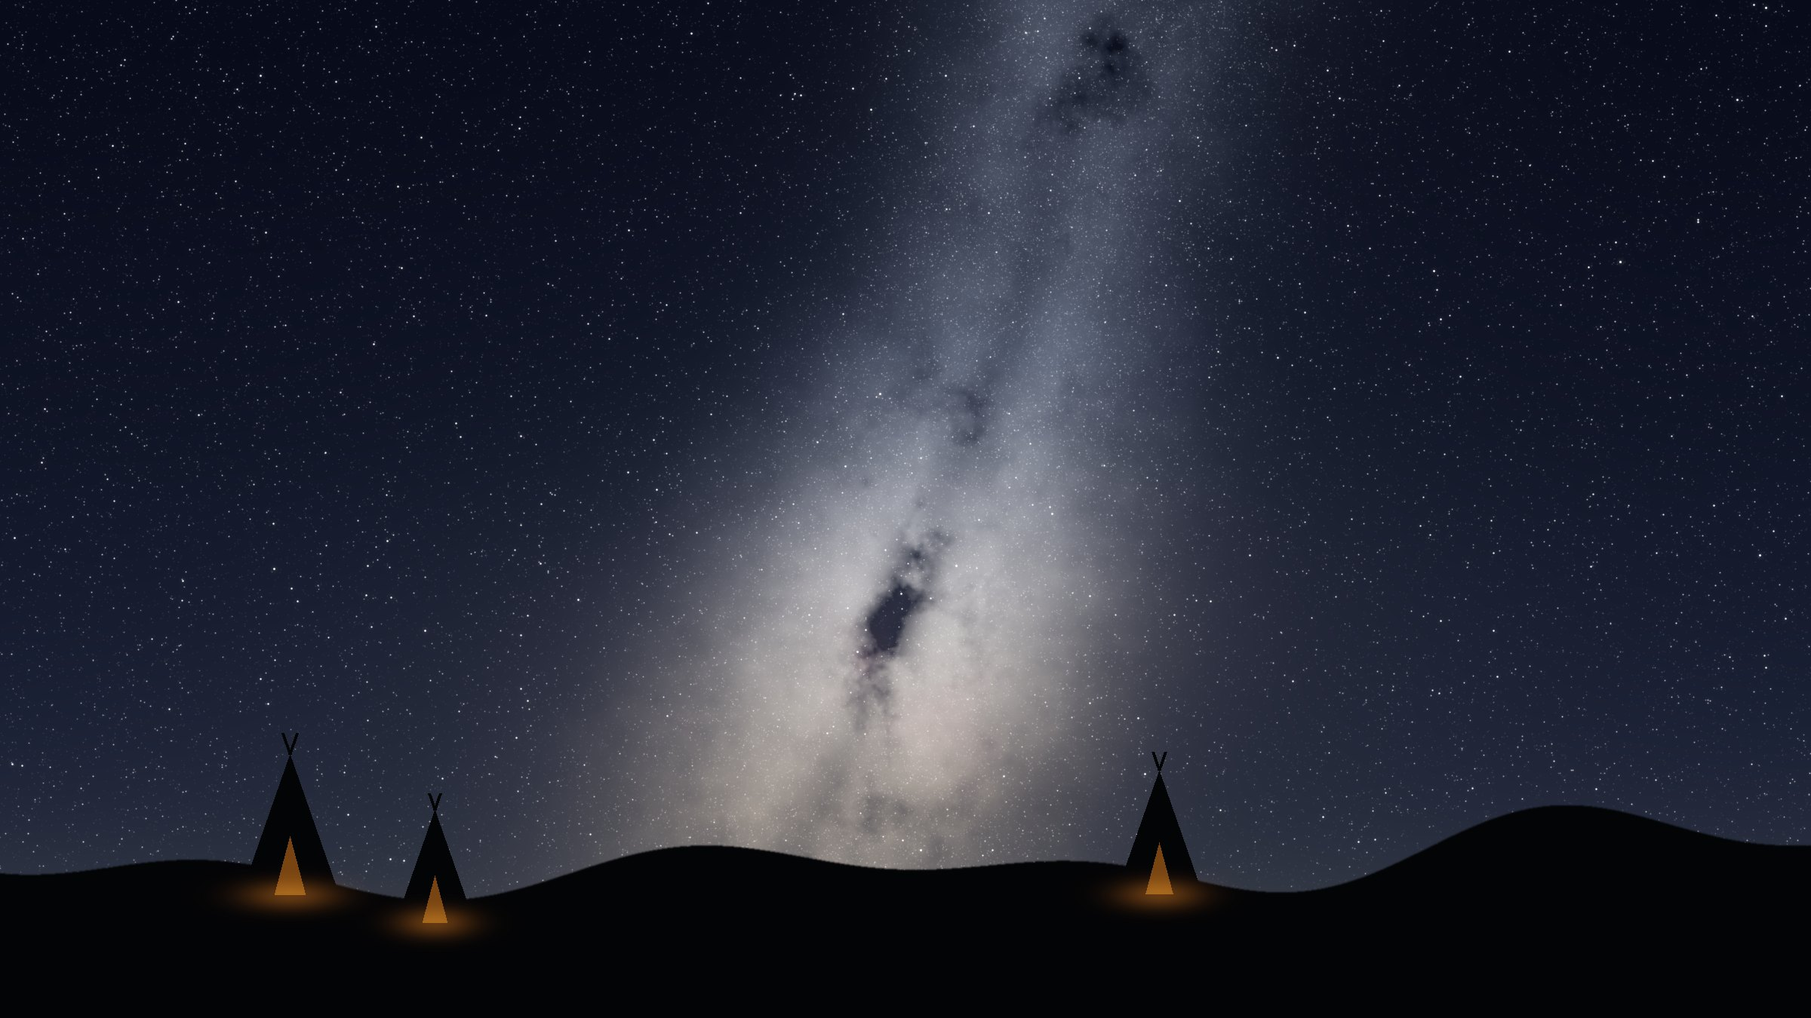
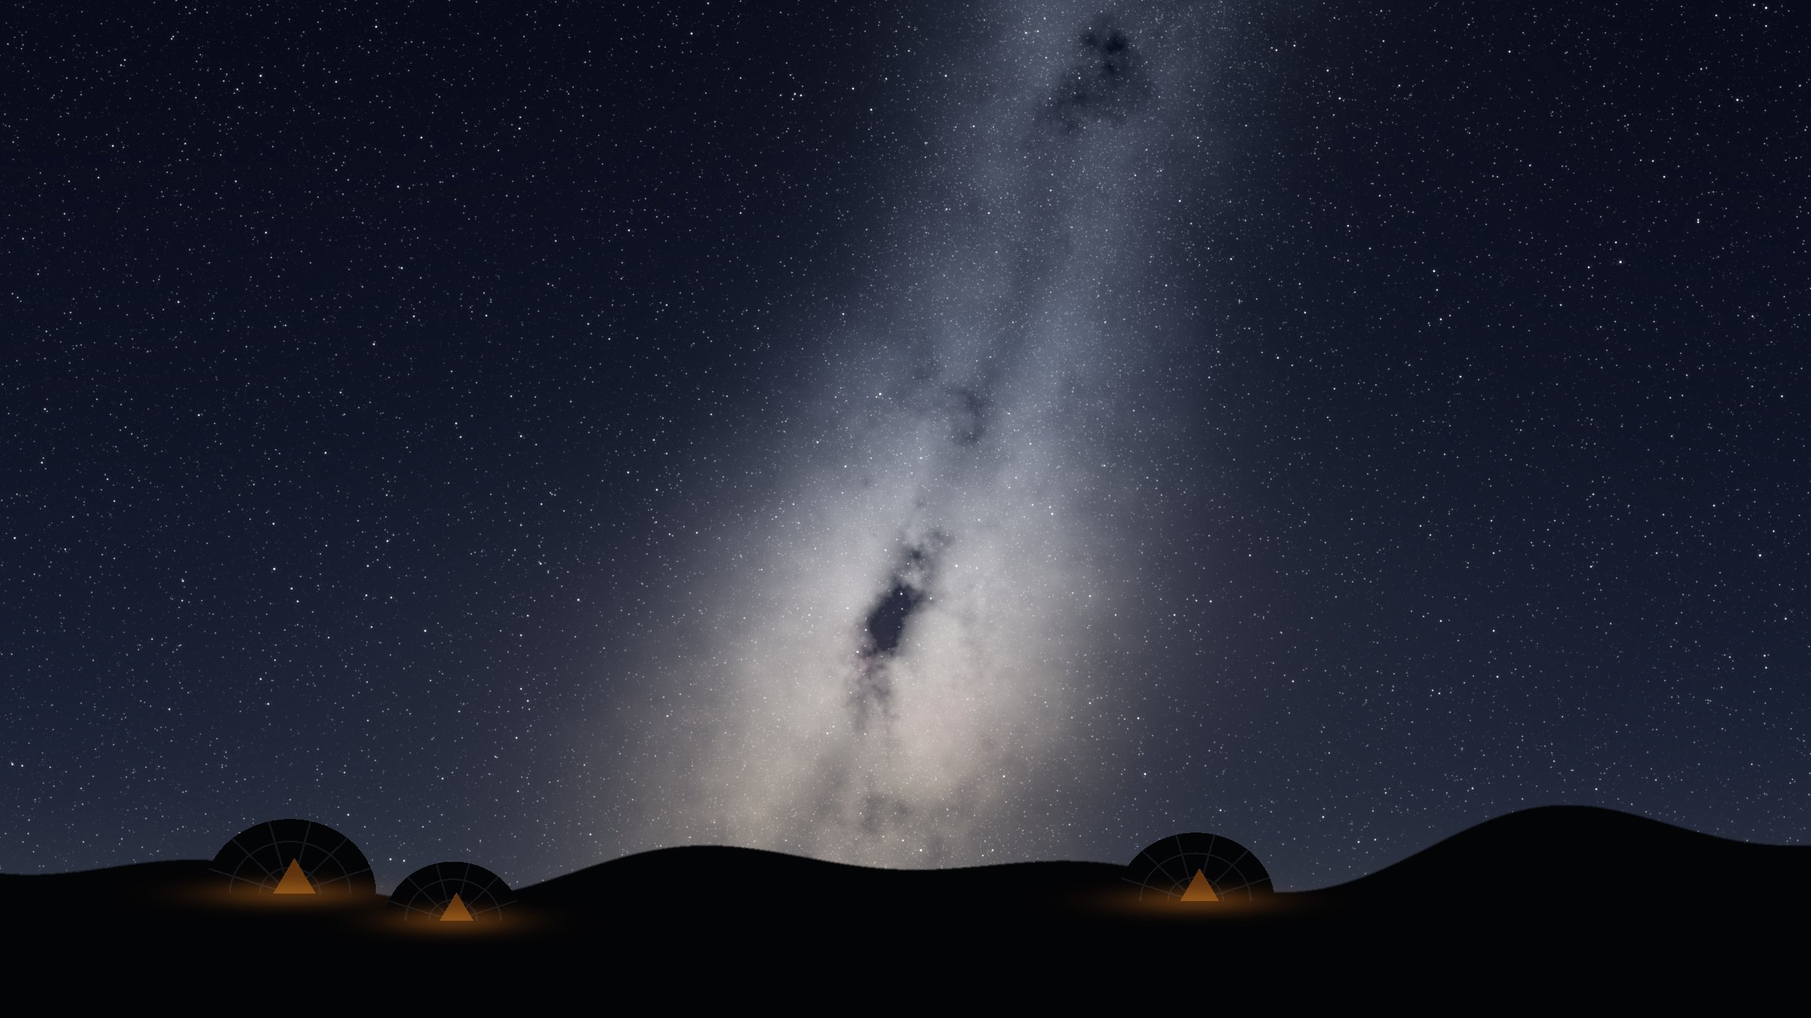
Domo geodésico como alojamiento principal; portada con domos

Changed region(s): [[0.125, 0.7467, 0.2812, 0.9333], [0.625, 0.7467, 0.7188, 0.9022], [0.0938, 0.8711, 0.125, 0.9022]]

diff --git a/index.html b/index.html
@@ -255,12 +255,12 @@ body.locked{overflow:hidden}
     </g>
     <!-- tipis -->
     <g fill="#141a26">
-      <path d="M300 92 L322 40 L344 92Z"/><path d="M316 46 l-6 -10 M328 46 l6 -10" stroke="#141a26" stroke-width="2"/>
-      <path d="M392 88 L410 46 L428 88Z"/>
+      <path d="M296 92 a26 26 0 0 1 52 0Z"/>
+      <path d="M392 88 a18 18 0 0 1 36 0Z"/>
       <path d="M560 76 a24 24 0 0 1 48 0Z"/>
     </g>
     <!-- luz ámbar tenue -->
-    <circle cx="322" cy="89" r="2.2" fill="#e0913f"/><circle cx="410" cy="85" r="1.8" fill="#e0913f" opacity=".8"/>
+    <circle cx="322" cy="89" r="2.2" fill="#e0913f"/><circle cx="410" cy="86" r="1.8" fill="#e0913f" opacity=".8"/>
     <circle cx="1052" cy="68" r="1.6" fill="#c2413a"/>
     <!-- hileras de viña -->
     <g stroke="#1a2230" stroke-width="2">
@@ -327,6 +327,16 @@ body.locked{overflow:hidden}
     <h2 data-i18n="stay_h2">Duerme entre viñas, a cien pasos de tu telescopio</h2>
     <p class="intro" data-i18n="stay_intro">Pequeños alojamientos sencillos repartidos por el viñedo, para quien viene a montar su equipo, a visitarlo o simplemente a pasar una noche bajo este cielo. Sin lujos innecesarios y a precio razonable. Todavía no admitimos reservas de alojamiento.</p>
     <div class="grid g3">
+      <div class="cell"><svg viewBox="0 0 400 260" role="img" aria-label="Ilustración de domo geodésico"><defs><linearGradient id="skyg" x1="0" y1="0" x2="0" y2="1"><stop offset="0" stop-color="#05070c"/><stop offset="1" stop-color="#121a2a"/></linearGradient><radialGradient id="glow" cx=".5" cy=".5" r=".5"><stop offset="0" stop-color="#e0913f" stop-opacity=".55"/><stop offset="1" stop-color="#e0913f" stop-opacity="0"/></radialGradient></defs><rect width="400" height="260" fill="url(#skyg)"/><g fill="#e7e3d8"><circle cx="22" cy="18" r="0.9" opacity="0.8"/><circle cx="58" cy="40" r="0.6" opacity="0.6"/><circle cx="96" cy="14" r="0.7" opacity="0.7"/><circle cx="140" cy="32" r="1.1" opacity="0.9"/><circle cx="188" cy="12" r="0.6" opacity="0.5"/><circle cx="232" cy="44" r="0.8" opacity="0.7"/><circle cx="270" cy="20" r="0.6" opacity="0.6"/><circle cx="310" cy="36" r="1" opacity="0.8"/><circle cx="352" cy="16" r="0.7" opacity="0.7"/><circle cx="380" cy="50" r="0.6" opacity="0.5"/><circle cx="120" cy="60" r="0.5" opacity="0.5"/><circle cx="330" cy="70" r="0.5" opacity="0.4"/><circle cx="40" cy="72" r="0.5" opacity="0.4"/><circle cx="210" cy="70" r="0.5" opacity="0.4"/></g><path d="M0 222 Q200 210 400 220 V260 H0Z" fill="#0a0e15"/><g stroke="#2b3a24" stroke-width="2" stroke-dasharray="3 7"><path d="M0 236 Q200 226 400 234"/><path d="M0 250 Q200 240 400 248"/></g>
+<path d="M120 214 A80 80 0 0 1 280 214Z" fill="#1b2230"/>
+<g fill="none" stroke="#6f7788" stroke-width="1.2"><path d="M120 214 A80 80 0 0 1 280 214"/><path d="M136 168 L200 134 L264 168"/><path d="M128 194 L168 158 L200 134 L232 158 L272 194"/><path d="M168 158 L136 168 M232 158 L264 168 M168 158 L200 196 L232 158 M128 194 L168 214 L200 196 L232 214 L272 194 M200 134 V196"/></g>
+<path d="M168 158 L200 134 L232 158 L200 196Z" fill="#e0913f" opacity=".22"/>
+<rect x="114" y="214" width="172" height="6" fill="#4a3826"/><ellipse cx="200" cy="216" rx="46" ry="6" fill="url(#glow)"/><g><rect x="92" y="214" width="3" height="10" fill="#1d2433"/><ellipse cx="93.5" cy="225" rx="14" ry="3" fill="url(#glow)"/></g><g><rect x="304" y="214" width="3" height="10" fill="#1d2433"/><ellipse cx="305.5" cy="225" rx="14" ry="3" fill="url(#glow)"/></g></svg>
+        <div><span class="tag main" data-i18n="dome_tag">Opción preferida</span></div>
+        <h3 data-i18n="dome_h">Domo geodésico</h3>
+        <p data-i18n="dome_p">Cúpula con ventanal hacia el cielo para mirar las estrellas desde la cama. Más aislada y confortable para estancias de varios días.</p>
+        <p class="illus" data-i18n="illus">Ilustración orientativa</p>
+      </div>
       <div class="cell"><svg viewBox="0 0 400 260" role="img" aria-label="Ilustración de tipi de palma entre viñas"><defs><linearGradient id="skyg" x1="0" y1="0" x2="0" y2="1"><stop offset="0" stop-color="#05070c"/><stop offset="1" stop-color="#121a2a"/></linearGradient><radialGradient id="glow" cx=".5" cy=".5" r=".5"><stop offset="0" stop-color="#e0913f" stop-opacity=".55"/><stop offset="1" stop-color="#e0913f" stop-opacity="0"/></radialGradient></defs><rect width="400" height="260" fill="url(#skyg)"/><g fill="#e7e3d8"><circle cx="22" cy="18" r="0.9" opacity="0.8"/><circle cx="58" cy="40" r="0.6" opacity="0.6"/><circle cx="96" cy="14" r="0.7" opacity="0.7"/><circle cx="140" cy="32" r="1.1" opacity="0.9"/><circle cx="188" cy="12" r="0.6" opacity="0.5"/><circle cx="232" cy="44" r="0.8" opacity="0.7"/><circle cx="270" cy="20" r="0.6" opacity="0.6"/><circle cx="310" cy="36" r="1" opacity="0.8"/><circle cx="352" cy="16" r="0.7" opacity="0.7"/><circle cx="380" cy="50" r="0.6" opacity="0.5"/><circle cx="120" cy="60" r="0.5" opacity="0.5"/><circle cx="330" cy="70" r="0.5" opacity="0.4"/><circle cx="40" cy="72" r="0.5" opacity="0.4"/><circle cx="210" cy="70" r="0.5" opacity="0.4"/></g><path d="M0 222 Q200 210 400 220 V260 H0Z" fill="#0a0e15"/><g stroke="#2b3a24" stroke-width="2" stroke-dasharray="3 7"><path d="M0 236 Q200 226 400 234"/><path d="M0 250 Q200 240 400 248"/></g>
 <g stroke="#6b5a42" stroke-width="3" stroke-linecap="round"><line x1="200" y1="56" x2="148" y2="214"/><line x1="200" y1="56" x2="252" y2="214"/><line x1="200" y1="56" x2="184" y2="34"/><line x1="200" y1="56" x2="218" y2="32"/><line x1="200" y1="56" x2="200" y2="30"/></g>
 <path d="M200 60 L136 212 H264Z" fill="#3a2f22"/>
@@ -334,19 +344,9 @@ body.locked{overflow:hidden}
 <path d="M200 118 L176 212 H224Z" fill="#e0913f" opacity=".28"/><path d="M200 128 L184 212 H216Z" fill="#e0913f" opacity=".35"/>
 <rect x="186" y="196" width="28" height="10" fill="#c9b48e" opacity=".55"/>
 <rect x="128" y="212" width="144" height="8" fill="#4a3826"/><ellipse cx="200" cy="214" rx="40" ry="6" fill="url(#glow)"/><g><rect x="108" y="214" width="3" height="10" fill="#1d2433"/><ellipse cx="109.5" cy="225" rx="14" ry="3" fill="url(#glow)"/></g><g><rect x="290" y="214" width="3" height="10" fill="#1d2433"/><ellipse cx="291.5" cy="225" rx="14" ry="3" fill="url(#glow)"/></g></svg>
-        <div><span class="tag main" data-i18n="tipi_tag">Opción preferida</span></div>
+        <div><span class="tag" data-i18n="tipi_tag">Alternativa</span></div>
         <h3 data-i18n="tipi_h">Tipi</h3>
         <p data-i18n="tipi_p">Tipi de lona cubierto de hoja de palma, sobre tarima de madera, cama doble, luz interior ámbar regulable y techo abierto al cielo. El alojamiento más sencillo y con más encanto.</p>
-        <p class="illus" data-i18n="illus">Ilustración orientativa</p>
-      </div>
-      <div class="cell"><svg viewBox="0 0 400 260" role="img" aria-label="Ilustración de domo geodésico"><defs><linearGradient id="skyg" x1="0" y1="0" x2="0" y2="1"><stop offset="0" stop-color="#05070c"/><stop offset="1" stop-color="#121a2a"/></linearGradient><radialGradient id="glow" cx=".5" cy=".5" r=".5"><stop offset="0" stop-color="#e0913f" stop-opacity=".55"/><stop offset="1" stop-color="#e0913f" stop-opacity="0"/></radialGradient></defs><rect width="400" height="260" fill="url(#skyg)"/><g fill="#e7e3d8"><circle cx="22" cy="18" r="0.9" opacity="0.8"/><circle cx="58" cy="40" r="0.6" opacity="0.6"/><circle cx="96" cy="14" r="0.7" opacity="0.7"/><circle cx="140" cy="32" r="1.1" opacity="0.9"/><circle cx="188" cy="12" r="0.6" opacity="0.5"/><circle cx="232" cy="44" r="0.8" opacity="0.7"/><circle cx="270" cy="20" r="0.6" opacity="0.6"/><circle cx="310" cy="36" r="1" opacity="0.8"/><circle cx="352" cy="16" r="0.7" opacity="0.7"/><circle cx="380" cy="50" r="0.6" opacity="0.5"/><circle cx="120" cy="60" r="0.5" opacity="0.5"/><circle cx="330" cy="70" r="0.5" opacity="0.4"/><circle cx="40" cy="72" r="0.5" opacity="0.4"/><circle cx="210" cy="70" r="0.5" opacity="0.4"/></g><path d="M0 222 Q200 210 400 220 V260 H0Z" fill="#0a0e15"/><g stroke="#2b3a24" stroke-width="2" stroke-dasharray="3 7"><path d="M0 236 Q200 226 400 234"/><path d="M0 250 Q200 240 400 248"/></g>
-<path d="M120 214 A80 80 0 0 1 280 214Z" fill="#1b2230"/>
-<g fill="none" stroke="#6f7788" stroke-width="1.2"><path d="M120 214 A80 80 0 0 1 280 214"/><path d="M136 168 L200 134 L264 168"/><path d="M128 194 L168 158 L200 134 L232 158 L272 194"/><path d="M168 158 L136 168 M232 158 L264 168 M168 158 L200 196 L232 158 M128 194 L168 214 L200 196 L232 214 L272 194 M200 134 V196"/></g>
-<path d="M168 158 L200 134 L232 158 L200 196Z" fill="#e0913f" opacity=".22"/>
-<rect x="114" y="214" width="172" height="6" fill="#4a3826"/><ellipse cx="200" cy="216" rx="46" ry="6" fill="url(#glow)"/><g><rect x="92" y="214" width="3" height="10" fill="#1d2433"/><ellipse cx="93.5" cy="225" rx="14" ry="3" fill="url(#glow)"/></g><g><rect x="304" y="214" width="3" height="10" fill="#1d2433"/><ellipse cx="305.5" cy="225" rx="14" ry="3" fill="url(#glow)"/></g></svg>
-        <div><span class="tag" data-i18n="dome_tag">Alternativa</span></div>
-        <h3 data-i18n="dome_h">Domo geodésico</h3>
-        <p data-i18n="dome_p">Cúpula con ventanal hacia el cielo para mirar las estrellas desde la cama. Más aislada y confortable para estancias de varios días.</p>
         <p class="illus" data-i18n="illus">Ilustración orientativa</p>
       </div>
       <div class="cell"><svg viewBox="0 0 400 260" role="img" aria-label="Ilustración de cabaña de madera y piedra"><defs><linearGradient id="skyg" x1="0" y1="0" x2="0" y2="1"><stop offset="0" stop-color="#05070c"/><stop offset="1" stop-color="#121a2a"/></linearGradient><radialGradient id="glow" cx=".5" cy=".5" r=".5"><stop offset="0" stop-color="#e0913f" stop-opacity=".55"/><stop offset="1" stop-color="#e0913f" stop-opacity="0"/></radialGradient></defs><rect width="400" height="260" fill="url(#skyg)"/><g fill="#e7e3d8"><circle cx="22" cy="18" r="0.9" opacity="0.8"/><circle cx="58" cy="40" r="0.6" opacity="0.6"/><circle cx="96" cy="14" r="0.7" opacity="0.7"/><circle cx="140" cy="32" r="1.1" opacity="0.9"/><circle cx="188" cy="12" r="0.6" opacity="0.5"/><circle cx="232" cy="44" r="0.8" opacity="0.7"/><circle cx="270" cy="20" r="0.6" opacity="0.6"/><circle cx="310" cy="36" r="1" opacity="0.8"/><circle cx="352" cy="16" r="0.7" opacity="0.7"/><circle cx="380" cy="50" r="0.6" opacity="0.5"/><circle cx="120" cy="60" r="0.5" opacity="0.5"/><circle cx="330" cy="70" r="0.5" opacity="0.4"/><circle cx="40" cy="72" r="0.5" opacity="0.4"/><circle cx="210" cy="70" r="0.5" opacity="0.4"/></g><path d="M0 222 Q200 210 400 220 V260 H0Z" fill="#0a0e15"/><g stroke="#2b3a24" stroke-width="2" stroke-dasharray="3 7"><path d="M0 236 Q200 226 400 234"/><path d="M0 250 Q200 240 400 248"/></g>
@@ -459,7 +459,7 @@ body.locked{overflow:hidden}
           <line x1="220" y1="60" x2="580" y2="60"/><line x1="220" y1="100" x2="580" y2="100"/><line x1="220" y1="140" x2="580" y2="140"/><line x1="220" y1="180" x2="580" y2="180"/><line x1="220" y1="220" x2="580" y2="220"/><line x1="220" y1="260" x2="580" y2="260"/><line x1="220" y1="300" x2="580" y2="300"/>
         </g>
         <g fill="#0d111b" stroke="#e7e3d8" stroke-width="1.3">
-          <path d="M270 132 L284 100 L298 132Z"/><path d="M370 212 L384 180 L398 212Z"/><path d="M480 132 L494 100 L508 132Z"/>
+          <path d="M268 132 a16 16 0 0 1 32 0Z"/><path d="M368 212 a16 16 0 0 1 32 0Z"/><path d="M478 132 a16 16 0 0 1 32 0Z"/>
           <path d="M300 288 a16 16 0 0 1 32 0Z"/><rect x="440" y="266" width="34" height="24"/>
         </g>
         <g fill="#e0913f"><circle cx="284" cy="138" r="2"/><circle cx="384" cy="218" r="2"/><circle cx="494" cy="138" r="2"/><circle cx="316" cy="294" r="2"/><circle cx="457" cy="296" r="2"/></g>
@@ -493,7 +493,7 @@ body.locked{overflow:hidden}
       <div><span class="t">12:00</span><h4 data-i18n="d1_h">Llegada</h4><p data-i18n="d1_p">Revisas tu equipo con nosotros o montas uno nuevo en el taller.</p></div>
       <div><span class="t">18:00</span><h4 data-i18n="d2_h">Viñedo</h4><p data-i18n="d2_p">Paseo entre las viñas y cata del vino de la finca.</p></div>
       <div><span class="t">21:30</span><h4 data-i18n="d3_h">Crepúsculo</h4><p data-i18n="d3_p">Se apagan las luces exteriores. Linterna roja en mano.</p></div>
-      <div><span class="t">23:00</span><h4 data-i18n="d4_h">Observación</h4><p data-i18n="d4_p">Junto a tu telescopio o desde la puerta del tipi.</p></div>
+      <div><span class="t">23:00</span><h4 data-i18n="d4_h">Observación</h4><p data-i18n="d4_p">Junto a tu telescopio o desde la cama del domo.</p></div>
     </div>
   </div>
 </section>
@@ -559,8 +559,8 @@ price_tbd:"Price to be set",price_m:"€ / month · no lock-in",
 inc1:"Solar power with batteries and backup, so outages don't cost you sessions",inc2:"High-speed internet with a backup line",inc3:"Private network and VPN for every client",inc4:"Weather station and automatic roof closing for rain or wind",inc5:"Help with installation and commissioning",inc6:"On-site hands: reboots, filter changes, cleaning",inc7:"24-hour surveillance and access control",inc8:"No entry or exit fee",
 stay_k:"Accommodation · planned",stay_h2:"Sleep among the vines, a hundred steps from your telescope",
 stay_intro:"Small, simple lodgings spread across the vineyard for those who come to set up their equipment, visit it, or just spend a night under this sky. No unnecessary luxury, at a fair price. We are not taking accommodation bookings yet.",
-tipi_tag:"Preferred option",tipi_h:"Tipi",tipi_p:"Canvas tipi thatched with palm leaves, on a wooden deck, double bed, dimmable amber light inside and a roof open to the sky. The simplest and most charming option.",
-dome_tag:"Alternative",dome_h:"Geodesic dome",dome_p:"A dome with a window to the sky to watch the stars from bed. Better insulated and more comfortable for stays of several days.",
+tipi_tag:"Alternative",tipi_h:"Tipi",tipi_p:"Canvas tipi thatched with palm leaves, on a wooden deck, double bed, dimmable amber light inside and a roof open to the sky. The simplest and most charming option.",
+dome_tag:"Preferred option",dome_h:"Geodesic dome",dome_p:"A dome with a window to the sky to watch the stars from bed. Better insulated and more comfortable for stays of several days.",
 cab_tag:"Alternative",cab_h:"Wooden cabin",cab_p:"A small wooden cabin with a stone wall, gable window, bathroom, basic kitchen and porch. Designed for observers who stay several nights working with their equipment.",photo:"Photo pending",illus:"Illustrative drawing",
 light_k:"Our golden rule",light_h2:"Here the night is respected. Light is scarce, low and warm.",
 light_intro:"One badly placed lamp ruins the session for every telescope. That is why the whole estate is designed so that no light reaches the sky or the cameras.",
@@ -574,7 +574,7 @@ site_k:"The estate · 7,500 m²",site_h2:"Three zones: arrive, sleep, observe",
 site_intro:"The plot is laid out by light. The arrival zone holds what little night activity there is, the vineyard with the lodgings acts as a buffer, and the telescopes sit in the highest, darkest part.",
 m_obs:"OBSERVATION",m_dome:"domes",m_mast:"all-sky masts",m_vine:"VINEYARD AND LODGINGS",m_arr:"ARRIVAL",m_rec:"reception · workshop",m_park:"parking",m_more:"← more light",m_less:"total darkness →",
 ph_cap:"The estate. The sea of clouds lies below the vineyard.",ph_warn:"Photo from the sale listing · get permission before publishing",vine_k:"The vineyard",vine_h:"A working vineyard",vine_p:"Bush-trained vines on volcanic soil, drip irrigation and a fully fenced plot. The varieties are traditional to La Palma.",v_w:"white",v_r:"red",lg1:"Arrival: low amber light",lg2:"Vineyard: minimal bollards",lg3:"Observation: red light only",m_note:"Indicative layout. The final distribution depends on the site survey.",
-day_k:"A day at the estate",day_h2:"From wine to deep sky",d1_h:"Arrival",d1_p:"Check your equipment with us or set up a new one in the workshop.",d2_h:"Vineyard",d2_p:"A walk through the vines and a tasting of the estate's wine.",d3_h:"Twilight",d3_p:"Outdoor lights go off. Red torch in hand.",d4_h:"Observing",d4_p:"Next to your telescope or from the tipi door.",
+day_k:"A day at the estate",day_h2:"From wine to deep sky",d1_h:"Arrival",d1_p:"Check your equipment with us or set up a new one in the workshop.",d2_h:"Vineyard",d2_p:"A walk through the vines and a tasting of the estate's wine.",d3_h:"Twilight",d3_p:"Outdoor lights go off. Red torch in hand.",d4_h:"Observing",d4_p:"Next to your telescope or from your bed in the dome.",
 c_k:"Contact",c_h2:"Book your spot before we open",c_intro:"We are getting the estate ready. Tell us what equipment you have or what kind of stay you are looking for and we will let you know as soon as spots open.",
 c_name:"Name",c_mail:"Email",c_type:"I'm interested in",o1:"Pier in a shared shed",o2:"Private shed or dome",o3:"Space for a camera or sensor",o4:"Accommodation (let me know when it opens)",o5:"Institution / research project",c_country:"Country",c_msg:"Your equipment or question",c_send:"Send request",
 proto:"Prototype · not published",ok:"Thank you. We have received your request and will write to you soon.",c_need:"Please accept the privacy policy to send.",c_cfg:"The form is not configured yet.",c_wait:"Sending…",fail:"It could not be sent. Please try again later.",c_consent:"I have read and accept the",c_pol:"privacy policy",l1:"Legal notice",l2:"Privacy",l3:"Cookies",err:"Fill in your name and a valid email."},
@@ -598,8 +598,8 @@ price_tbd:"Preis folgt",price_m:"€ / Monat · ohne Mindestlaufzeit",
 inc1:"Solarstrom mit Batterien und Reserve, damit kein Stromausfall eine Session kostet",inc2:"Schnelles Internet mit Backup-Leitung",inc3:"Privates Netzwerk und VPN für jeden Kunden",inc4:"Wetterstation und automatisches Schließen des Dachs bei Regen oder Wind",inc5:"Hilfe bei Installation und Inbetriebnahme",inc6:"Hilfe vor Ort: Neustarts, Filterwechsel, Reinigung",inc7:"Überwachung und Zugangskontrolle rund um die Uhr",inc8:"Keine Ein- oder Austrittsgebühr",
 stay_k:"Unterkunft · in Planung",stay_h2:"Schlafen zwischen den Reben, hundert Schritte von Ihrem Teleskop",
 stay_intro:"Kleine, einfache Unterkünfte im Weinberg für alle, die ihre Ausrüstung aufbauen, besuchen oder einfach eine Nacht unter diesem Himmel verbringen möchten. Ohne unnötigen Luxus, zu fairen Preisen. Buchungen für Unterkünfte nehmen wir noch nicht an.",
-tipi_tag:"Bevorzugte Option",tipi_h:"Tipi",tipi_p:"Tipi aus Segeltuch mit Palmblattdach auf Holzplattform, Doppelbett, dimmbares Bernsteinlicht und ein zum Himmel offenes Dach. Die einfachste und charmanteste Unterkunft.",
-dome_tag:"Alternative",dome_h:"Geodätische Kuppel",dome_p:"Eine Kuppel mit Fenster zum Himmel, um die Sterne vom Bett aus zu sehen. Besser isoliert und komfortabler für mehrtägige Aufenthalte.",
+tipi_tag:"Alternative",tipi_h:"Tipi",tipi_p:"Tipi aus Segeltuch mit Palmblattdach auf Holzplattform, Doppelbett, dimmbares Bernsteinlicht und ein zum Himmel offenes Dach. Die einfachste und charmanteste Unterkunft.",
+dome_tag:"Preferred option",dome_h:"Geodätische Kuppel",dome_p:"Eine Kuppel mit Fenster zum Himmel, um die Sterne vom Bett aus zu sehen. Besser isoliert und komfortabler für mehrtägige Aufenthalte.",
 cab_tag:"Alternative",cab_h:"Holzhütte",cab_p:"Kleine Holzhütte mit Steinmauer, Giebelfenster, Bad, einfacher Küche und Veranda. Für Beobachter, die mehrere Nächte mit ihrer Ausrüstung arbeiten.",photo:"Foto folgt",illus:"Illustration, unverbindlich",
 light_k:"Unsere goldene Regel",light_h2:"Hier wird die Nacht respektiert. Licht ist spärlich, niedrig und warm.",
 light_intro:"Eine einzige falsch platzierte Lampe ruiniert die Session aller Teleskope. Deshalb ist das ganze Gelände so geplant, dass kein Licht den Himmel oder die Kameras erreicht.",
@@ -613,7 +613,7 @@ site_k:"Das Gelände · 7.500 m²",site_h2:"Drei Zonen: ankommen, schlafen, beob
 site_intro:"Das Grundstück ist nach Licht geordnet. Die Ankunftszone bündelt die wenige nächtliche Aktivität, der Weinberg mit den Unterkünften dient als Puffer, und die Teleskope stehen im höchsten, dunkelsten Teil.",
 m_obs:"BEOBACHTUNG",m_dome:"Kuppeln",m_mast:"All-Sky-Masten",m_vine:"WEINBERG UND UNTERKÜNFTE",m_arr:"ANKUNFT",m_rec:"Empfang · Werkstatt",m_park:"Parkplatz",m_more:"← mehr Licht",m_less:"völlige Dunkelheit →",
 ph_cap:"Das Gelände. Das Wolkenmeer liegt unterhalb des Weinbergs.",ph_warn:"Foto aus der Verkaufsanzeige · vor Veröffentlichung Nutzungsrecht einholen",vine_k:"Der Weinberg",vine_h:"Ein Weinberg in Produktion",vine_p:"Buschreben auf vulkanischem Boden, Tröpfchenbewässerung und vollständig eingezäunt. Die Rebsorten sind typisch für La Palma.",v_w:"weiß",v_r:"rot",lg1:"Ankunft: niedriges Bernsteinlicht",lg2:"Weinberg: minimale Poller",lg3:"Beobachtung: nur Rotlicht",m_note:"Schematische Darstellung. Die endgültige Aufteilung hängt von der Vermessung ab.",
-day_k:"Ein Tag auf dem Gut",day_h2:"Vom Wein zum Deep Sky",d1_h:"Ankunft",d1_p:"Ausrüstung mit uns prüfen oder in der Werkstatt neu aufbauen.",d2_h:"Weinberg",d2_p:"Spaziergang durch die Reben und Verkostung des hauseigenen Weins.",d3_h:"Dämmerung",d3_p:"Die Außenbeleuchtung geht aus. Rotlicht in der Hand.",d4_h:"Beobachtung",d4_p:"Neben Ihrem Teleskop oder vor dem Tipi.",
+day_k:"Ein Tag auf dem Gut",day_h2:"Vom Wein zum Deep Sky",d1_h:"Ankunft",d1_p:"Ausrüstung mit uns prüfen oder in der Werkstatt neu aufbauen.",d2_h:"Weinberg",d2_p:"Spaziergang durch die Reben und Verkostung des hauseigenen Weins.",d3_h:"Dämmerung",d3_p:"Die Außenbeleuchtung geht aus. Rotlicht in der Hand.",d4_h:"Beobachtung",d4_p:"Neben Ihrem Teleskop oder vom Bett in der Kuppel.",
 c_k:"Kontakt",c_h2:"Sichern Sie sich Ihren Platz vor der Eröffnung",c_intro:"Wir bereiten das Gelände gerade vor. Erzählen Sie uns, welche Ausrüstung Sie haben oder welchen Aufenthalt Sie suchen, und wir melden uns, sobald Plätze frei sind.",
 c_name:"Name",c_mail:"E-Mail",c_type:"Ich interessiere mich für",o1:"Säule in geteilter Hütte",o2:"Eigene Hütte oder Kuppel",o3:"Platz für Kamera oder Sensor",o4:"Unterkunft (Bescheid geben, wenn verfügbar)",o5:"Institution / Forschungsprojekt",c_country:"Land",c_msg:"Ihre Ausrüstung oder Ihre Frage",c_send:"Anfrage senden",
 proto:"Prototyp · nicht veröffentlicht",ok:"Danke. Wir haben Ihre Anfrage erhalten und melden uns bald.",c_need:"Bitte akzeptieren Sie die Datenschutzerklärung.",c_cfg:"Das Formular ist noch nicht eingerichtet.",c_wait:"Wird gesendet…",fail:"Senden nicht möglich. Bitte später erneut versuchen.",c_consent:"Ich habe die",c_pol:"Datenschutzerklärung gelesen und akzeptiere sie",l1:"Impressum",l2:"Datenschutz",l3:"Cookies",err:"Bitte Namen und eine gültige E-Mail angeben."}
